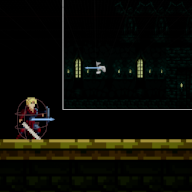
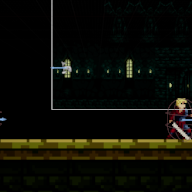
creates npc dialogue menu from the datatable entries

diff --git a/Source/TG/NPCs/MasterNPC.cpp b/Source/TG/NPCs/MasterNPC.cpp
@@ -7,6 +7,7 @@
 #include "Components/WidgetComponent.h"
 #include "TG/UI/Dialogue/DialogueWidget.h"
 #include "Components/TextBlock.h"
+#include "TG/UI/Dialogue/DialogueSelectionMenu.h"
 
 AMasterNPC::AMasterNPC()
 {
@@ -36,7 +37,7 @@ AMasterNPC::AMasterNPC()
 
 	dialogueTextComp = CreateDefaultSubobject<UWidgetComponent>(TEXT("dialogueTextComp"));
 	dialogueTextComp->SetupAttachment(RootComponent);
-	dialogueTextComp->SetRelativeLocation(FVector(30, 0, 150));
+	dialogueTextComp->SetRelativeLocation(FVector(0, 0, 200));
 	dialogueTextComp->SetVisibility(true);
 	dialogueTextComp->SetCollisionProfileName(TEXT("NoCollision"));
 	dialogueTextComp->SetGenerateOverlapEvents(false);
@@ -44,7 +45,7 @@ AMasterNPC::AMasterNPC()
 
 	dialogueSelectionComp = CreateDefaultSubobject<UWidgetComponent>(TEXT("dialogueSelectionComp"));
 	dialogueSelectionComp->SetupAttachment(RootComponent);
-	dialogueSelectionComp->SetRelativeLocation(FVector(150, 0, 0));
+	dialogueSelectionComp->SetRelativeLocation(FVector(0, 0, 150));
 	dialogueSelectionComp->SetVisibility(true);
 	dialogueSelectionComp->SetCollisionProfileName(TEXT("NoCollision"));
 	dialogueSelectionComp->SetGenerateOverlapEvents(false);
@@ -100,8 +101,11 @@ void AMasterNPC::Interact(AActor* iPlayer)
 {
 	RotateTowardsPlayer(iPlayer);
 	dialogueAlert->SetVisibility(false);
-	refDialogueTextWidget->SetVisibility(ESlateVisibility::Visible);
-	ShowNextDialogueMessage();
+	CreateDialogueSelection();
+// 	FTimerHandle interactTimer;
+// 	GetWorld()->GetTimerManager().SetTimer(interactTimer, this, &AMasterNPC::CreateDialogueSelection, 0.5f, false);
+// 	refDialogueTextWidget->SetVisibility(ESlateVisibility::Visible);
+// 	ShowNextDialogueMessage();
 }
 
 void AMasterNPC::BeginPlay()
@@ -112,8 +116,7 @@ void AMasterNPC::BeginPlay()
 	SetDataTableObjectDataRowNames();
 
 
-	refDialogueTextWidget = CastChecked<UDialogueWidget>(dialogueTextComp->GetUserWidgetObject());
-	refDialogueTextWidget->SetVisibility(ESlateVisibility::Hidden);
+	
 
 
 }
@@ -182,7 +185,10 @@ void AMasterNPC::InitializeDataTableInfo()
 
 void AMasterNPC::InitializeReferences()
 {
+	refDialogueTextWidget = CastChecked<UDialogueWidget>(dialogueTextComp->GetUserWidgetObject());
+	refDialogueTextWidget->SetVisibility(ESlateVisibility::Hidden);
 
+	refDialogueSelectionMenu = CastChecked<UDialogueSelectionMenu>(dialogueSelectionComp->GetUserWidgetObject());
 }
 
 void AMasterNPC::PassDataFromTableToObjectVariables()
@@ -369,4 +375,14 @@ void AMasterNPC::AllEventsFinishedDialogue()
 	int32 l_randDialogue = FMath::RandRange(0, currentNPCDialogues.dialogueMessagesPlayerHasDoneAllTasks.Num() - 1);
 	refDialogueTextWidget->refDialogueTextBlock->SetText(
 		currentNPCDialogues.dialogueMessagesPlayerHasDoneAllTasks[l_randDialogue]);
+}
+
+void AMasterNPC::CreateDialogueSelection()
+{
+	if (refDialogueSelectionMenu == nullptr)
+	{
+		return;
+	}
+	refDialogueSelectionMenu->CreateDialogueButtons(currentNPCDialogues.dialogueSelectionMenuButtons);
+
 }

diff --git a/Source/TG/UI/Dialogue/DialogueSelectionMenu.cpp b/Source/TG/UI/Dialogue/DialogueSelectionMenu.cpp
@@ -3,10 +3,71 @@
 
 #include "DialogueSelectionMenu.h"
 #include "Components/HorizontalBox.h"
+#include "DialogueSelectButton.h"
+#include "TG/NPCs/MasterNPC.h"
+
+
 
 void UDialogueSelectionMenu::NativeConstruct()
 {
 	Super::NativeConstruct();
 	InitializeRefsInBP();
+	InitializeReferences();
 
+}
+
+void UDialogueSelectionMenu::CreateDialogueButtons(const TArray<EDialogueSelectButtons>& iDialogueBtns)
+{
+	/*what do we want to implement?
+	buttons that take their name and functionality from an enum.
+	I want that in NPC data table I set an array of enums that 
+	the buttons are created on. For example the array inside the
+	character has ETalk, EDuel, ERecruit inside the NPC I call this
+	function, pass these in here and create the buttons based on that.
+	so I think variables I need to create are:
+	2)EnumSelectDialogue
+	3)Array<EnumSelectDialogue> (unique)
+	4)
+	so the function counts the number of entries in the array and builds the widgets based on that.
+	*/
+	
+	/*reads the input and adds only unique values so we won't have 2 talks 
+	when we make mistake in the datatable*/
+	TArray<EDialogueSelectButtons> l_dialogueBtns;
+	for (int i = 0; i <= iDialogueBtns.Num() - 1; i++)
+	{		
+		l_dialogueBtns.AddUnique(iDialogueBtns[i]);
+	}
+	
+
+	if (!iDialogueBtns.IsValidIndex(0))
+	{
+		UE_LOG(LogTemp, Warning, TEXT("UDialogueSelectionMenu::CreateDialogueButtons empty array input"));
+		return;
+	}
+
+	//if this widget has been already called, clear previous children and create new ones
+	if (bHaveTheButtonsAlreadyBeenCreated)
+	{
+		refDialogueMenuHorizontalBox->ClearChildren();
+	}
+
+	//Create buttons
+	for (auto& e : l_dialogueBtns)
+	{
+		UE_LOG(LogTemp, Warning, TEXT("createBtn"));
+		//dnt forget to add WBP correct to the Blueprint
+		UDialogueSelectButton* wDialogueBtn = CreateWidget<UDialogueSelectButton>(GetWorld(), WBP_DialogueSelectButton);
+		refDialogueMenuHorizontalBox->AddChildToHorizontalBox(wDialogueBtn);
+		wDialogueBtn->SetButtonText(e);
+		bHaveTheButtonsAlreadyBeenCreated = true;
+	}
+	
+	
+	
+}
+
+void UDialogueSelectionMenu::InitializeReferences()
+{
+		
 }

diff --git a/Source/TG/NPCs/MasterNPC.h b/Source/TG/NPCs/MasterNPC.h
@@ -5,6 +5,7 @@
 #include "CoreMinimal.h"
 #include "PaperCharacter.h"
 #include "TG/Interfaces/Interact.h"
+#include "TG/Enumerations.h"
 #include "Engine/DataTable.h"
 #include "MasterNPC.generated.h"
 
@@ -46,6 +47,7 @@ struct FNPCDialogues
 		dialogueMessagesHasDoneEvent4.Add(FText::FromString("Event4 message"));
 
 		dialogueMessagesPlayerHasDoneAllTasks.Add(FText::FromString("AllEventsCompleted"));
+		dialogueSelectionMenuButtons.AddUnique(EDialogueSelectButtons::TALK);
 		}
 
 		UPROPERTY(EditAnywhere, BlueprintReadWrite)
@@ -70,6 +72,10 @@ struct FNPCDialogues
 		TArray<FText> dialogueMessagesHasDoneEvent4;
 	UPROPERTY(EditAnywhere)
 		TArray<FText> dialogueMessagesPlayerHasDoneAllTasks;
+	//buttons that this npc has when interacted with, talk, trade etc
+	UPROPERTY(EditAnywhere)
+		TArray<EDialogueSelectButtons> dialogueSelectionMenuButtons;
+
 };
 
 USTRUCT(BlueprintType)
@@ -112,13 +118,6 @@ public:
 
 	virtual void OnConstruction(const FTransform& Transform) override;
 
-	/* ###########################################################
-						References
-	 ########################################################### */
-	class UDialogueWidget* refDialogueTextWidget;
-
-	 /* #########################END############################## */
-
 protected:
 
 	void RotateTowardsPlayer(AActor* iPlayer);
@@ -151,6 +150,8 @@ protected:
 		/* ###########################################################
 						Initialize & References
 	 ########################################################### */
+
+
 protected:
 	//init sprites etc ingame
 
@@ -162,6 +163,11 @@ protected:
 
 	UPROPERTY(EditAnywhere)
 		float initializeTimer;
+
+	UPROPERTY()
+	class UDialogueWidget* refDialogueTextWidget;
+	UPROPERTY()
+	class UDialogueSelectionMenu* refDialogueSelectionMenu;
 	/* #########################END############################## */
 
 
@@ -221,5 +227,9 @@ protected:
 	void Event3Dialogue();
 	void Event4Dialogue();
 	void AllEventsFinishedDialogue();
+
+	//DialogueSelectionMenu
+	void CreateDialogueSelection();
+
 	 /* #########################END############################## */
 };

diff --git a/Source/TG/UI/Dialogue/DialogueSelectionMenu.h b/Source/TG/UI/Dialogue/DialogueSelectionMenu.h
@@ -4,6 +4,7 @@
 
 #include "CoreMinimal.h"
 #include "Blueprint/UserWidget.h"
+#include "TG/Enumerations.h"
 #include "DialogueSelectionMenu.generated.h"
 
 /**
@@ -15,15 +16,30 @@ class TG_API UDialogueSelectionMenu : public UUserWidget
 	GENERATED_BODY()
 public:
 
+	/* ###########################################################
+						Initializes & references
+	 ########################################################### */
 	UFUNCTION(BlueprintImplementableEvent)
 	void InitializeRefsInBP();
+	void InitializeReferences();
 
 	UPROPERTY(EditAnywhere, BlueprintReadWrite)
 		class UHorizontalBox* refDialogueMenuHorizontalBox;
 
+	
+
+	 /* #########################END############################## */
 protected:
 	virtual void NativeConstruct() override;
 
-	
+	UPROPERTY(EditAnywhere, Category = "AWidgets")
+		TSubclassOf<class UDialogueSelectButton> WBP_DialogueSelectButton;
 
+	
+public:
+	void CreateDialogueButtons(const TArray<EDialogueSelectButtons>& iDialogueBtns);
+
+
+private:
+	bool bHaveTheButtonsAlreadyBeenCreated = false;
 };

diff --git a/Source/TG/UI/Dialogue/DialogueSelectButton.cpp b/Source/TG/UI/Dialogue/DialogueSelectButton.cpp
@@ -10,3 +10,31 @@ void UDialogueSelectButton::NativeConstruct()
 	Super::NativeConstruct();
 	InitializeRefsInBP();
 }
+
+void UDialogueSelectButton::SetButtonText(EDialogueSelectButtons iBtn)
+{
+	switch (iBtn)
+	{
+	case EDialogueSelectButtons::TALK:
+		refTextDialogueButton->SetText(FText::FromString("Talk"));
+		break;
+	case EDialogueSelectButtons::ASK:
+		refTextDialogueButton->SetText(FText::FromString("Ask"));
+		break;
+	case EDialogueSelectButtons::GIVE:
+		refTextDialogueButton->SetText(FText::FromString("Give"));
+		break;
+	case EDialogueSelectButtons::TRADE:
+		refTextDialogueButton->SetText(FText::FromString("Trade"));
+		break;
+	case EDialogueSelectButtons::INVITE:
+		refTextDialogueButton->SetText(FText::FromString("Invite"));
+		break;
+	case EDialogueSelectButtons::DUEL:
+		refTextDialogueButton->SetText(FText::FromString("Duel"));
+		break;
+	case EDialogueSelectButtons::DUELPRACTICE:
+		refTextDialogueButton->SetText(FText::FromString("DuelPractice"));
+		break;
+	}
+}

diff --git a/Source/TG/Enumerations.h b/Source/TG/Enumerations.h
@@ -33,3 +33,15 @@ enum class ETGGameState : uint8
 	INGAMEDUEL					UMETA(DisplayName = "INGAME DUEL"),
 	DEATHSCREEN					UMETA(DisplayName = "DEATH SCREEN"),
 };
+
+UENUM(BlueprintType)
+enum class EDialogueSelectButtons : uint8
+{
+	TALK					UMETA(DisplayName = "TALK"),
+	ASK						UMETA(DisplayName = "ASK"),
+	GIVE					UMETA(DisplayName = "GIVE"),
+	TRADE					UMETA(DisplayName = "TRADE"),
+	INVITE					UMETA(DisplayName = "INVITE TO GROUP"),
+	DUEL					UMETA(DisplayName = "DUEL"),
+	DUELPRACTICE			UMETA(DisplayName = "DUELPRACTICE"),
+};

diff --git a/Source/TG/UI/Dialogue/DialogueSelectButton.h b/Source/TG/UI/Dialogue/DialogueSelectButton.h
@@ -4,6 +4,7 @@
 
 #include "CoreMinimal.h"
 #include "Blueprint/UserWidget.h"
+#include "TG/Enumerations.h"
 #include "DialogueSelectButton.generated.h"
 
 /**
@@ -23,8 +24,10 @@ public:
 		UPROPERTY(EditAnywhere, BlueprintReadWrite)
 			class UTextBlock* refTextDialogueButton;
 
+		void SetButtonText(EDialogueSelectButtons iBtn);
+
 protected:
 	virtual void NativeConstruct() override;
 
-
+	
 };
